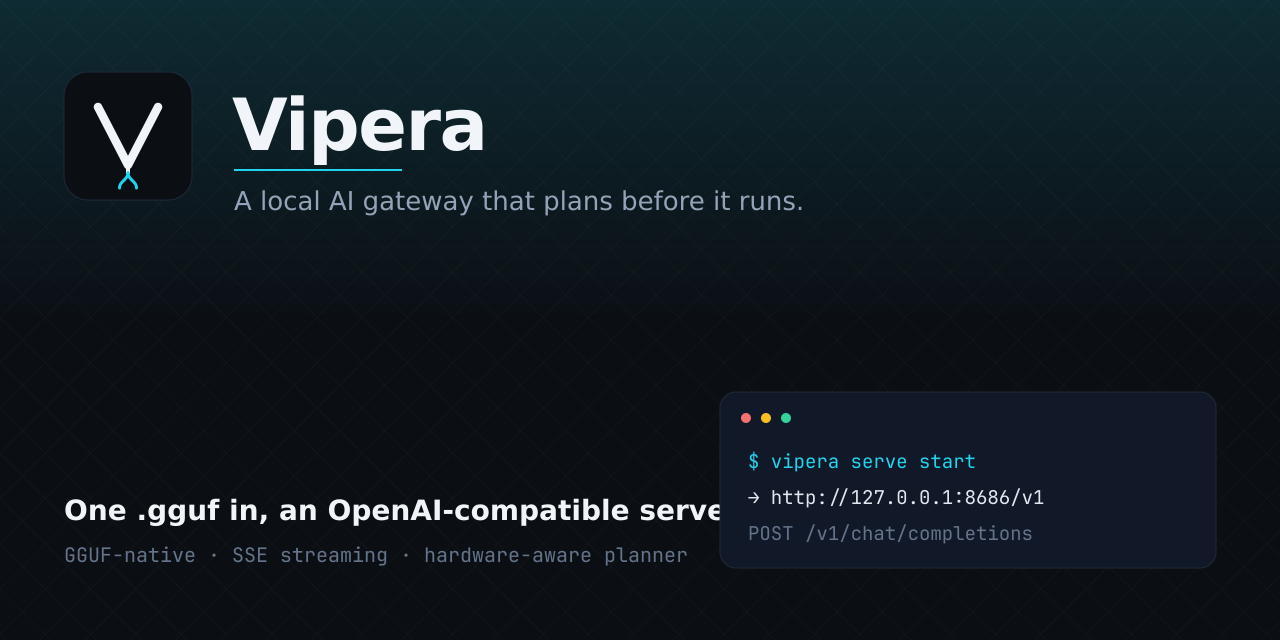
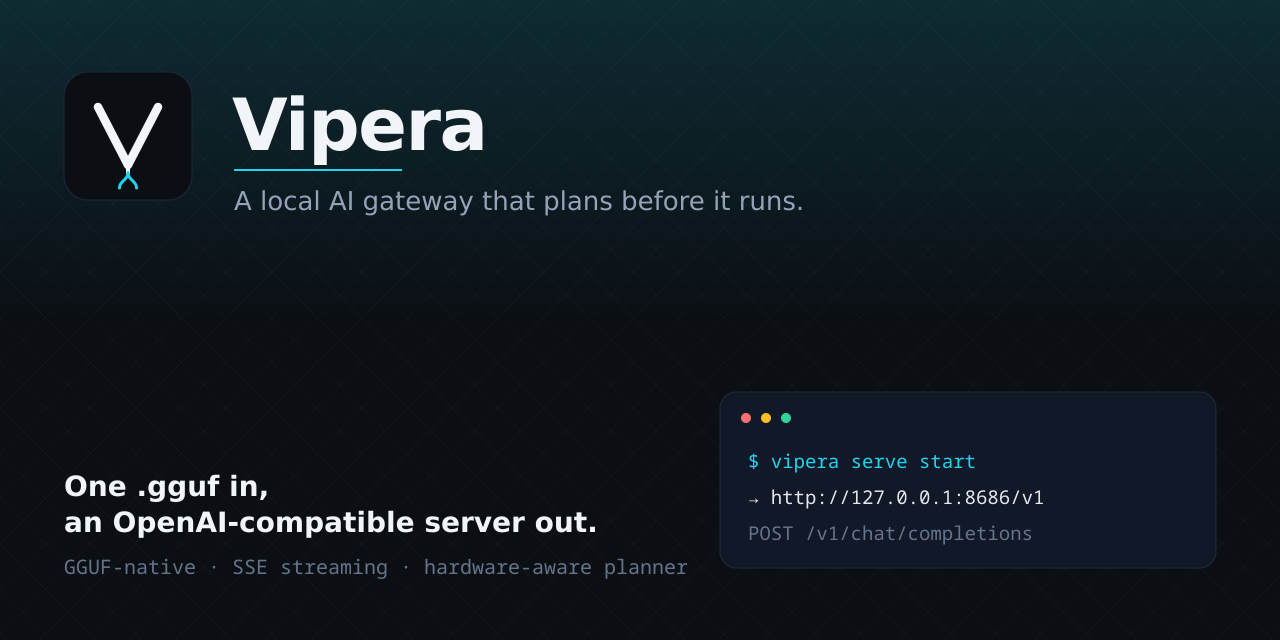
docs(readme): show the demo GIF and stop clipping the social preview
`docs/assets/demo.gif` (900x600, 188 frames) was recorded and committed but no
page embedded it, while CONTRIBUTING, docs/development.md and
docs/assets/README.md all claimed the README did. It is now above the problem
statement. `docs/images/demo.gif` goes with it: a 33-byte placeholder from the
1.0.0 commit, referenced by nothing.

The social preview headline was a single `<text>` 750 px wide at font-size 28,
so it ran under the terminal mock at x=720 and the rasterized card lost
"server out" - and that clipped file is the one uploaded to the repository, so
every link unfurl showed it. It is two lines now (207 and 535 px), both left of
the mock, and the PNG is regenerated at 1280x640.

The card itself still needs a manual upload (Settings -> Social preview): GitHub
exposes no API for it.

🤖 Generated with Codebuff

diff --git a/README.md b/README.md
@@ -15,6 +15,10 @@ model does not quite fit.
 [![License: MIT](https://img.shields.io/badge/license-MIT-yellow.svg)](LICENSE)
 [![Status: beta](https://img.shields.io/badge/status-beta-orange)](CHANGELOG.md)
 
+<img src="docs/assets/demo.gif" alt="vipera system doctor, then serve start, status and stop" width="720" />
+
+<sub><code>vipera system doctor</code> → <code>serve start</code> → <code>serve status</code> → <code>serve stop</code></sub>
+
 </div>
 
 ## The problem it solves
